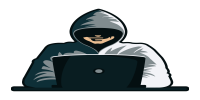
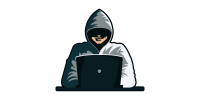
Разобрался, теперь картинка грузится корректно

Changed region(s): [[0.03, 0.06, 0.96, 0.93], [0.45, 0.69, 0.51, 0.75]]

diff --git a/task_2.php b/task_2.php
@@ -14,6 +14,9 @@ $height = 100;
 		div{
 			margin-top: 20px;
 		}
+		img{
+			border: 1px solid black;
+		}
 		</style>
 	</head>
 	<body>
@@ -26,7 +29,7 @@ $height = 100;
 			Важно: решение требует использования PHP, сжатие картинки средствами HTML/CSS является некорректным решением.
 		</div>
 		<div class="answer">
-			<?=my_resize($base_img,$width,$height)?>
+			<?my_resize($base_img,$width,$height)?>
 			<img src="result.png" alt="">
 		</div>
 	</body>
@@ -36,38 +39,35 @@ $height = 100;
 <?
 function my_resize($img,$target_width,$target_height){
 
-	if ($target_height > $target_width) {
-		// code...
-	}
-
 	$size = getimagesize($img); 
 	if ($size){
 		list($width, $height) = getimagesize($img);
 
-		if ($width == $height) {
-			$target_width = ($target_height > $target_width)?$target_height:$target_width;
-			$target_height = ($target_height > $target_width)?$target_width:$target_height;
-		}
-
-		echo $width."/".$height;
-
 		$srcImage = imageCreateFromPng($img);
 		$result_img = imageCreateTrueColor($target_width, $target_height);
 	
-		imagealphablending($result_img, false);
-		 
-		//Включаем сохранение альфа канала
-		imagesavealpha($result_img, true);
+		imagealphablending($result_img, true); 
+		imageSaveAlpha($result_img, true);
+		$transparent = imagecolorallocatealpha($result_img, 0, 0, 0, 127); 
+		imagefill($result_img, 0, 0, $transparent); 
+		imagecolortransparent($result_img, $transparent); 
 
-		imagecopyresampled($result_img, $srcImage, 0, 0, 0, 0, $target_width, $target_height, $width, $height);
+		$new_width = ceil($target_height / ($height / $width));
+		$new_height = ceil($target_width / ($width / $height));
 
+		if ($new_width < $target_width) {
+			imageCopyResampled($result_img, $srcImage, ceil(($target_width - $new_width) / 2), 0, 0, 0, $new_width, $target_height, $width, $height);        
+		} else {
+			imageCopyResampled($result_img, $srcImage, 0, ceil(($target_height - $new_height) / 2), 0, 0, $target_width, $new_height, $width, $height);    
+		}   
 		// СОЗДАЁМ
-		return imagepng($result_img, 'result.png', -1); 
-
+		return imagepng($result_img, 'result.png', 9); 
+		
 		} else {
 		exit("изображение не найдено");
 		}
 }
-
-
 ?>
+
+
+  
